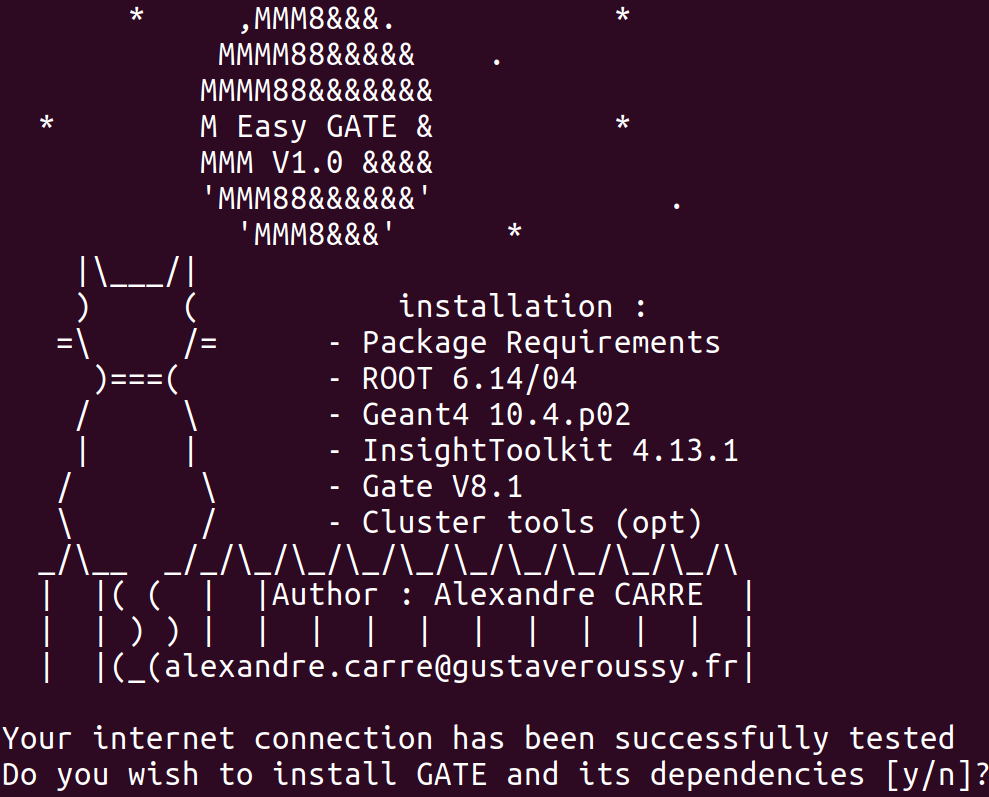
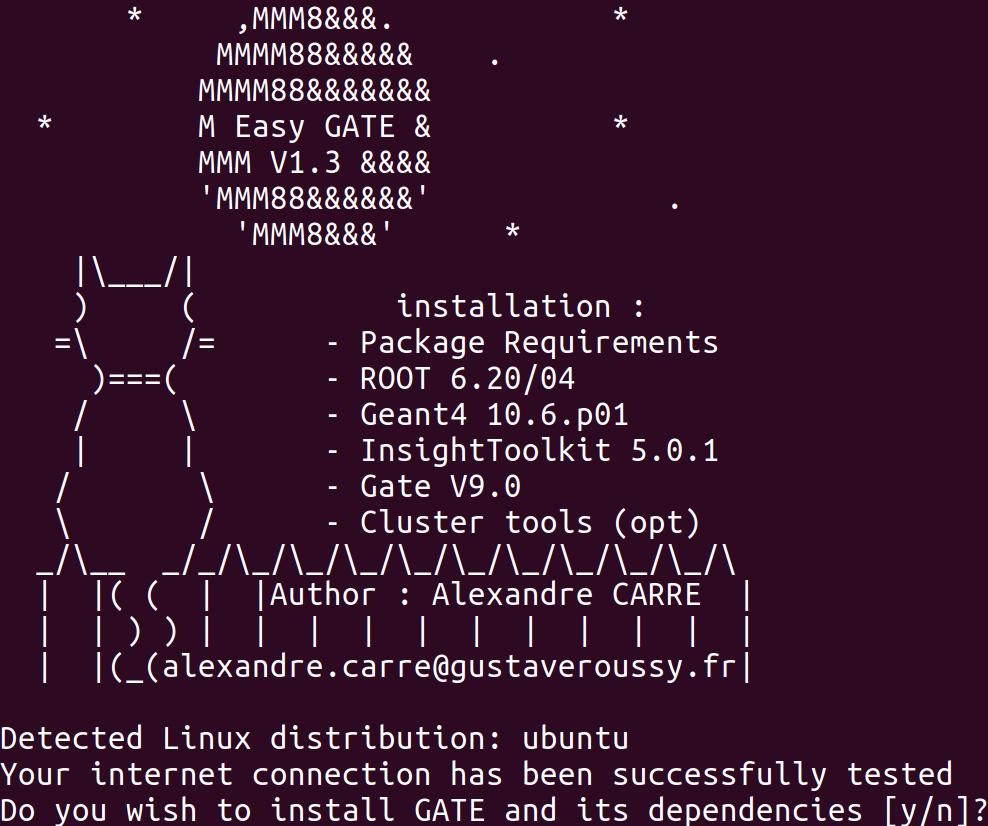
modification of image

diff --git a/README.md b/README.md
@@ -13,7 +13,7 @@
 <p align="justify">
 GATE is an advanced opensource software developed by the international OpenGATE collaboration and dedicated to numerical simulations in medical imaging and radiotherapy. It currently supports simulations of Emission Tomography (Positron Emission Tomography - PET and Single Photon Emission Computed Tomography - SPECT), Computed Tomography (CT), Optical Imaging (Bioluminescence and Fluorescence) and Radiotherapy experiments. Using an easy-to-learn macro mechanism to configurate simple or highly sophisticated experimental settings, GATE now plays a key role in the design of new medical imaging devices, in the optimization of acquisition protocols and in the development and assessment of image reconstruction algorithms and correction techniques. It can also be used for dose calculation in radiotherapy experiments.
 
-The installation of GATE is tedious, time consuming and may seem complicated for a novice user. In order not to discourage a novice user to apprehend the formidable tool that is GATE. You can use the script provided here which will install absolutely all the necessary files. All you have to do is comply the following instructions. The compilation is long, so don't be afraid !
+The installation of GATE is tedious, time consuming and may seem complicated for a novice user. In order not to discourage a novice user to apprehend the formidable tool GATE is, you can use the script provided here which will install absolutely all the necessary files. All you have to do is comply the following instructions. The compilation is long, so don't be afraid !
 For more advance users, the script also allows you to install cluster tools with HTcondor (only for Ubuntu distro).
 </p>
 
@@ -30,8 +30,8 @@ If you want the tool available for other distributions, please contact me !
 Some informations : 
 - If you want to know more about GATE, please refer to [the official webpage of GATE](http://www.opengatecollaboration.org/).<br/>
 - GATE User's Guide is available on [Wiki OpenGATE](http://wiki.opengatecollaboration.org/index.php/Users_Guide).<br/>
-- Before use this tool on your system maybe you want to know about the possibility to use an image of the vGATE 9.0, virtual machine equipped with all the necessary software for running GATE simulations, please refer to [the official vGate 9.0 webpage](https://opengate.readthedocs.io/en/latest/compilation_instructions.html)<br/>
-
+- Before using this tool on your system it would be interesting to know about the possibility to use an image of the vGATE 9.0, virtual machine equipped with all the necessary software for running GATE simulations. Please refer to [the official vGate 9.0 webpage](https://opengate.readthedocs.io/en/latest/compilation_instructions.html)<br/>
+ 
 Report bugs to the author [Alexandre CARRE](mailto:alexandre.carre@gustaveroussy.fr)<br/>
 NB : use this script at your own risk.
 

diff --git a/update_version.md b/update_version.md
@@ -1,15 +1,16 @@
-# version 1.1
-## What's new ?
+# What's new ?
+
+## version 1.1
 - Checking free space in the directory path choose for installation.
 - Compiling ROOT from source instead of use binary packages.
 - Taking into account others distros : Fedora, Debian, Centos, openSUSE, scientific
 - Alias for source GATE (source-gatev8.1) instead of a direct source which allow to run different version of GATE.
 - minor bug fixes
 
-# version 1.2
+## version 1.2
 - bug fixes
 
-# version 1.3
+## version 1.3
 - update to root_v6.20.04
 - update to InsightToolkit-5.0.1
 - update to geant4.10.06.p01
